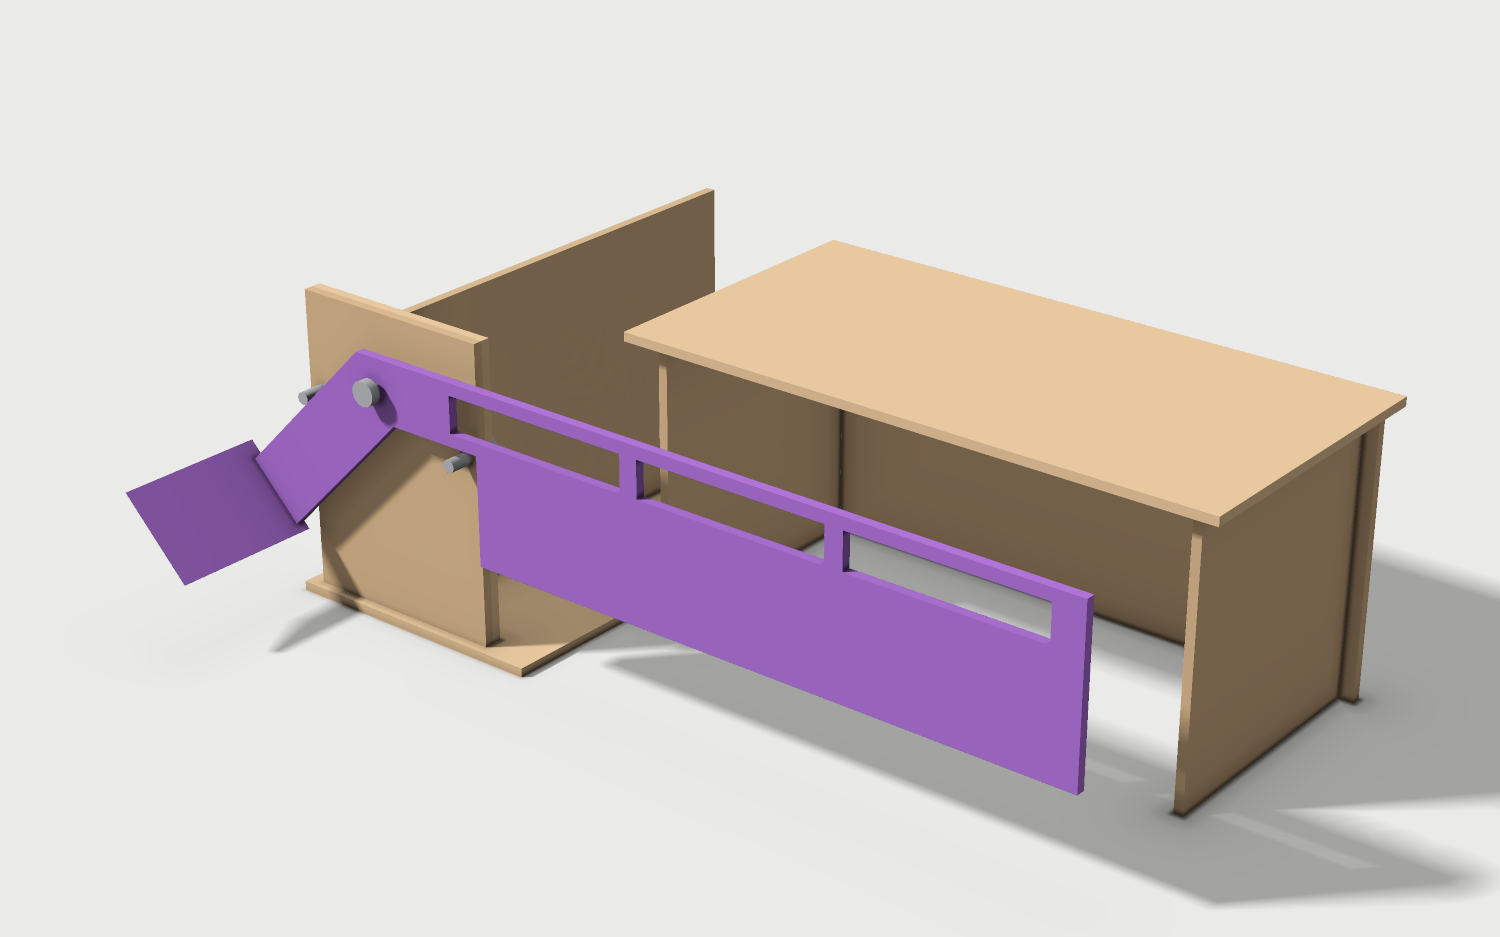
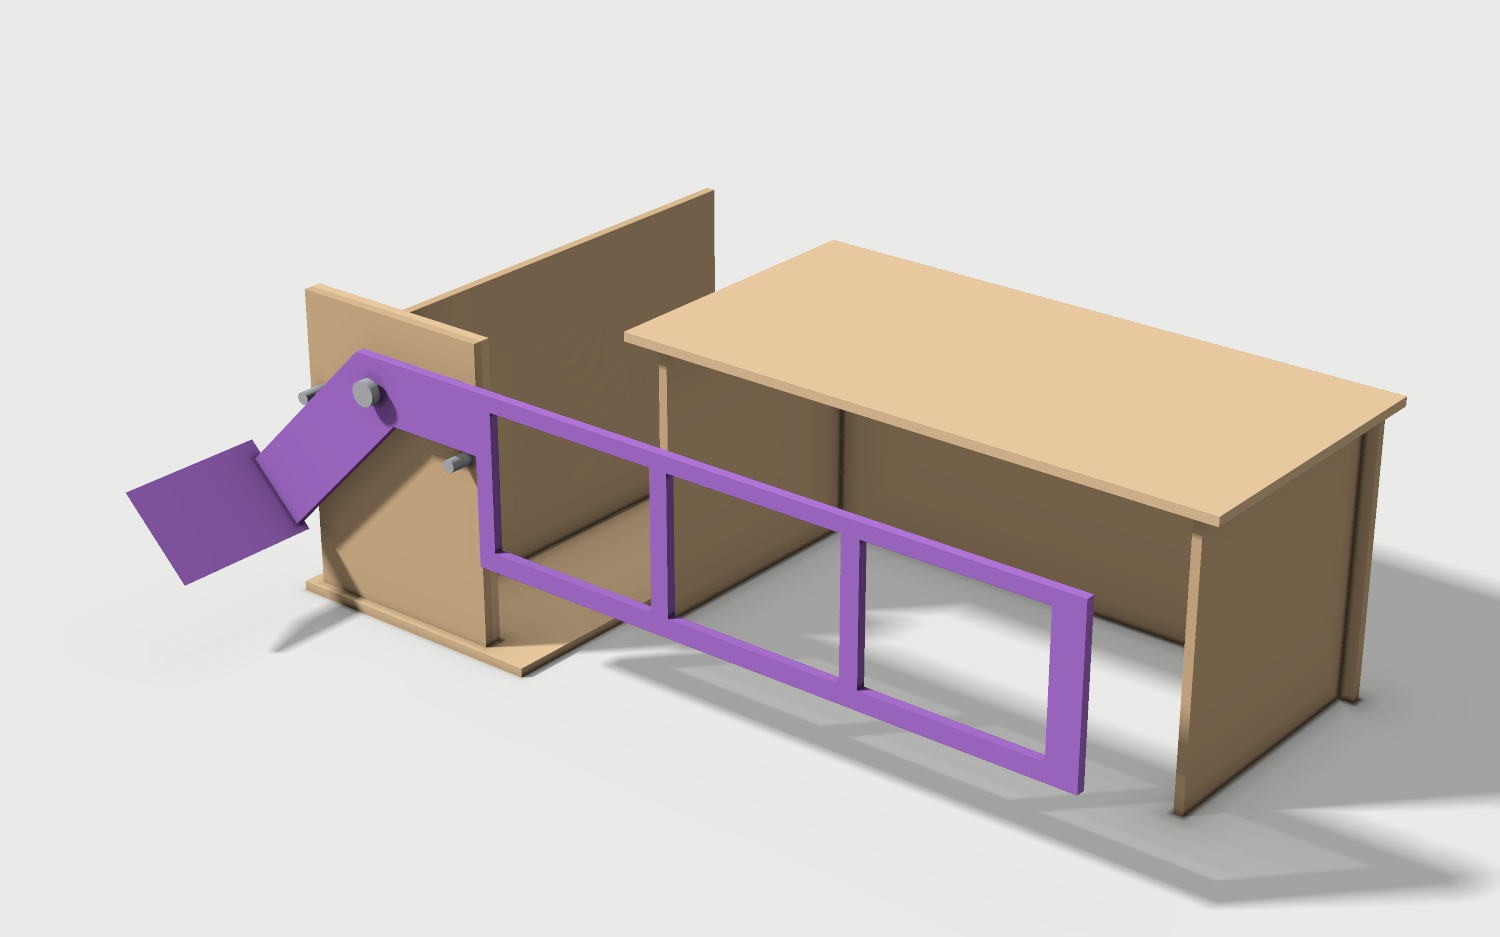
Barrera: finestres que travessen el braç i el faldó
Tres finestres de 59 × 44 mm, amb el cantell inferior a 41 mm del taulell:
una bobina tombada (50 mm) no hi cap. La peça mòbil passa de 36 a 21 g, i
la força màxima a la pala, de 0,73 a 0,25 N.

Changed region(s): [[0.276, 0.4333, 0.7053, 0.8047]]

diff --git a/barrera/generate_barrera.py b/barrera/generate_barrera.py
@@ -38,7 +38,8 @@ UPRIGHT_LEFT, UPRIGHT_RIGHT = 36.0, 33.0
 UPRIGHT_TOP = 100.0
 BLADE_WIDTH, BLADE_HEIGHT = 50.0, 30.0
 WALL_LENGTH, WALL_HEIGHT = 139.0, 100.0
-WINDOW_COUNT, WINDOW_WIDTH = 3, 12.0
+WINDOW_COUNT, WINDOW_RIB = 3, 6.0  # finestres del braç i el faldó, i nervis entre elles
+WINDOW_EDGE = 5.0  # cantell superior que queda sobre les finestres
 PRINT_DENSITY = 0.00093  # g/mm³: PLA amb 2 perímetres i 30 % de farciment, a 3 mm de gruix
 BOLT_FRICTION = 0.3
 
@@ -197,10 +198,28 @@ def sheet():
 
 
 def windows():
-    """Finestres del braç: alleugereixen la peça impresa."""
-    start, end, rib = 30.0, ARM_LENGTH - 10.0, 6.0
+    """Finestres del braç i el faldó: alleugereixen la peça impresa.
+
+    Cada finestra és (inici, llargada, z superior, z inferior), des de l'eix.
+    """
+    rib = WINDOW_RIB
+    start, end = SKIRT_START + rib, ARM_LENGTH - 10.0
+    z_top = ARM_WIDTH / 2 - WINDOW_EDGE
+    z_bottom = SKIRT_BOTTOM - AXIS_HEIGHT + rib
     length = (end - start - (WINDOW_COUNT - 1) * rib) / WINDOW_COUNT
-    return [(start + i * (length + rib), length) for i in range(WINDOW_COUNT)]
+    return [(start + i * (length + rib), length, z_top, z_bottom) for i in range(WINDOW_COUNT)]
+
+
+def plate_pieces():
+    """Rectangles de la placa (braç i faldó) amb signe: +1 material, -1 finestra.
+
+    Cada peça és (signe, x0, x1, z0, z1); la pala va a part.
+    """
+    hw = ARM_WIDTH / 2
+    x0, x1, z0, z1 = skirt_box()
+    pieces = [(1, 0.0, ARM_LENGTH, -hw, hw), (1, x0, x1, z1, z0)]
+    pieces += [(-1, s, s + length, bottom, top) for s, length, top, bottom in windows()]
+    return pieces
 
 
 def skirt_box():
@@ -208,15 +227,9 @@ def skirt_box():
     return SKIRT_START, ARM_LENGTH, -ARM_WIDTH / 2, SKIRT_BOTTOM - AXIS_HEIGHT
 
 
-def skirt_mass():
-    x0, x1, z0, z1 = skirt_box()
-    return (x1 - x0) * (z0 - z1) * T * PRINT_DENSITY
-
-
 def part_mass():
-    """Massa (g) del braç, la pala i la superfície de contacte, impresos en 3D."""
-    window_area = sum(length * WINDOW_WIDTH for _, length in windows())
-    arm = (ARM_LENGTH * ARM_WIDTH - window_area) * T * PRINT_DENSITY
+    """Massa (g) de la placa (braç i faldó), la pala i la superfície de contacte."""
+    arm = sum(s * (x1 - x0) * (z1 - z0) for s, x0, x1, z0, z1 in plate_pieces()) * T * PRINT_DENSITY
     paddle = PADDLE_LENGTH * PADDLE_WIDTH * T * PRINT_DENSITY
     blade = BLADE_WIDTH * BLADE_HEIGHT * T * PRINT_DENSITY
     return arm, paddle, blade
@@ -227,17 +240,17 @@ def closing_moment(angle):
     g = 9.81e-3
     paddle_dir = direction(PADDLE_ANGLE + angle)
     arm_dir = direction(angle)
-    x0, x1, z0, z1 = skirt_box()
-    cx, cz = (x0 + x1) / 2, (z0 + z1) / 2
-    skirt = skirt_mass() * (cx * arm_dir[0] - cz * arm_dir[1])
-    return g * (skirt + arm * ARM_LENGTH / 2 * arm_dir[0]
+    plate = sum(s * (x1 - x0) * (z1 - z0) * T * PRINT_DENSITY
+                * ((x0 + x1) / 2 * arm_dir[0] - (z0 + z1) / 2 * arm_dir[1])
+                for s, x0, x1, z0, z1 in plate_pieces())
+    return g * (plate
                 + paddle * PADDLE_LENGTH / 2 * paddle_dir[0]
                 + blade * PADDLE_LENGTH * paddle_dir[0])
 
 
 def report():
     arm, paddle, blade = part_mass()
-    total = arm + paddle + blade + skirt_mass()
+    total = arm + paddle + blade
     friction = total * 9.81e-3 * BOLT_FRICTION * BOLT_HOLE / 2
     worst = float("inf")
     max_force = 0.0
@@ -264,6 +277,11 @@ def report():
     print(f"Faldó: de x={x0:.0f} a {x1:.0f} mm, cantell inferior a {SKIRT_BOTTOM:.0f} mm del taulell; "
           f"pas lliure entre la paret i el faldó: {x0 - WALL_FACE:.1f} mm")
     print(f"Barrera oberta: punt més baix del faldó sobre el pas del receptacle a {lowest:.0f} mm")
+    s, length, top, bottom = windows()[0]
+    print(f"Finestres: {WINDOW_COUNT} de {length:.0f} × {top - bottom:.0f} mm, "
+          f"amb el cantell inferior a {AXIS_HEIGHT + bottom:.0f} mm del taulell")
+    if top - bottom > BOBBIN_LYING - 5:
+        raise SystemExit("VALIDACIÓ FALLIDA: una bobina tombada cap per una finestra")
     if SKIRT_BOTTOM > BOBBIN_LYING - 10 or x0 - WALL_FACE > BOBBIN_LYING - 10:
         raise SystemExit("VALIDACIÓ FALLIDA: una bobina tombada pot passar per sota de la barrera")
     if hypot(x0, z0) < hypot(*open_stop) + PIN_RADIUS + 4:
@@ -288,9 +306,8 @@ def write_moving_part():
         return face.extrude(Vector(0, 0, z1 - z0))
 
     solid = prism(moving_outline(), 0, T)
-    for start, length in windows():
-        h = WINDOW_WIDTH / 2
-        solid = solid.cut(prism([(start, -h), (start + length, -h), (start + length, h), (start, h)], -1, T + 1))
+    for start, length, top, bottom in windows():
+        solid = solid.cut(prism([(start, bottom), (start + length, bottom), (start + length, top), (start, top)], -1, T + 1))
     solid = solid.cut(Part.makeCylinder(BOLT_HOLE / 2, T + 2, Vector(0, 0, -1)))
     dx, dz = direction(PADDLE_ANGLE)
     nx, nz = -dz, dx

diff --git a/barrera/render_muntatge.py b/barrera/render_muntatge.py
@@ -27,7 +27,7 @@ FLOOR = np.array([0.62, 0.62, 0.61])
 
 OUTLINE = np.array([(245, 10), (245, -45), (40, -45), (40, -10), (6.98, -10), (-37.47, -54.45), (-54.45, -37.47), (-6.98, 10)], float)
 BLADE = np.array([(-35.39, -56.57), (-37.51, -54.45), (-58.73, -33.24), (-56.61, -35.36)], float)
-WINDOWS = [(30 + i * (64.33 + 6), 64.33) for i in range(3)]
+WINDOWS = [(46 + i * (59 + 6), 59) for i in range(3)]  # z de 41 a 85 mm del taulell
 STOPS = ((-31.1, -11.3), (28.7, -16.5))
 
 
@@ -90,7 +90,7 @@ def build(offsets):
     def moving(p):
         d = sd_extruded(p, OUTLINE, -3, 0)
         for start, length in WINDOWS:
-            d = np.maximum(d, -sd_box(p, (start, -5, 74), (start + length, 2, 86)))
+            d = np.maximum(d, -sd_box(p, (start, -5, 41), (start + length, 2, 85)))
         d = np.maximum(d, -sd_ycyl(p, 0, 80, 2.2, -5, 2))
         return np.minimum(d, sd_extruded(p, BLADE, -50, 0))
 

diff --git a/barrera/LLEGEIX-ME.md b/barrera/LLEGEIX-ME.md
@@ -16,7 +16,7 @@ Executa'l amb `python3 generate_barrera.py` (làmina) o amb `PYTHONIOENCODING=ut
 
 ## Impressió de la peça mòbil
 
-PLA, 0,2 mm de capa, 2 perímetres i 30 % de farciment, amb la cara plana sobre el llit. La massa estimada és de 36 g, i la força horitzontal màxima per obrir-la, d'uns 0,7 N; cal pesar el prototip i comprovar que un robot l'obre.
+PLA, 0,2 mm de capa, 2 perímetres i 30 % de farciment, amb la cara plana sobre el llit. El braç i el faldó tenen tres finestres de 59 × 44 mm per alleugerir-la; el seu cantell inferior queda a 41 mm del taulell, i una bobina tombada (50 mm) no hi cap. La massa estimada és de 21 g, i la força horitzontal màxima per obrir-la, d'uns 0,25 N; cal pesar el prototip i comprovar que un robot l'obre.
 
 ## Muntatge
 
